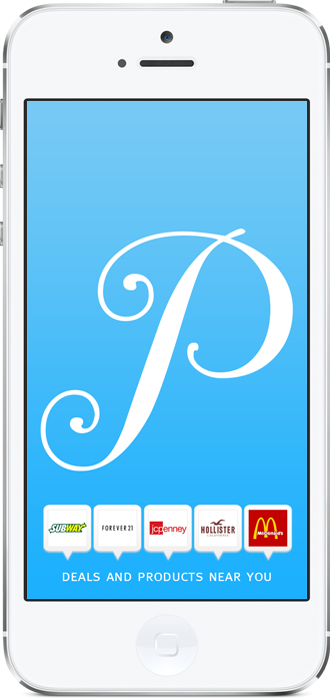
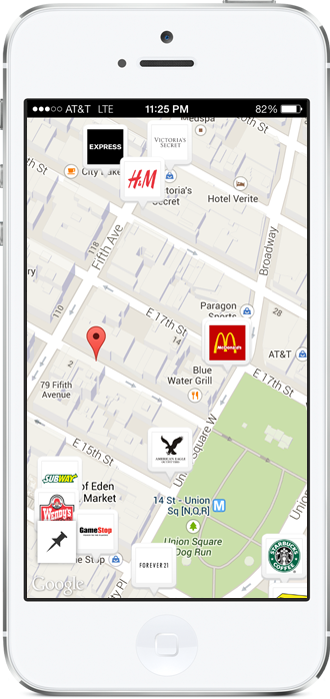
Added other slides

diff --git a/app/webroot/css/styles.css b/app/webroot/css/styles.css
@@ -1,3 +1,9 @@
+p{
+	font-family: inherit;
+	font-size: 14px;
+	line-height: 20px;
+}
+
 .helvbold{
 	font-family: 'helvetica_neuebold', 'Helvetica', 'Arial', sans-serif;
 }
@@ -47,16 +53,56 @@ img.phones.shifted{
 
 .description{
 	margin-right: 550px;
-	margin-top: 400px;
+	margin-top: 225px;
 	color: #FFF;
 	font-size: 14px;
 }
 
 .description h1{
 	font-size: 30px;
-	line-height: 40px;
+	line-height: 50px;
 }
 
+.downloadLinks{
+	margin-top: 40px;
+}
+
+.downloadLinks > .android{
+	margin-left: 25px;
+}
+
+.panel{
+	padding: 150px 0;
+	min-height: 476px;
+}
+
+.instantshopping .info{
+	margin-left: 560px;
+	margin-top: 220px;
+}
+
+.panel img{
+	width: 480px;
+	position: absolute;
+}
+
+.instantshopping img{
+	left: 0;
+}
+
+.browsedeals img{
+	right: 0;
+	top: 0;
+	width: 280px;
+}
+
+.panel.browsedeals{
+	background: #F4F4F4;
+}
+
+.browsedeals .info{
+	margin-right: 500px;
+}
 
 @media screen and (min-width: 1800px) {
 

diff --git a/app/webroot/admin/PeekoSource/public/css/style.css b/app/webroot/admin/PeekoSource/public/css/style.css
@@ -11,7 +11,7 @@ body{
 	position: absolute;
 	width: 100%;
 	height: 100%;
-	background: rgba(255,255,255, .9);
+	background: #FFF;
 	overflow-y: scroll;
 	z-index: 100;
 	-webkit-border-radius: 9px;
